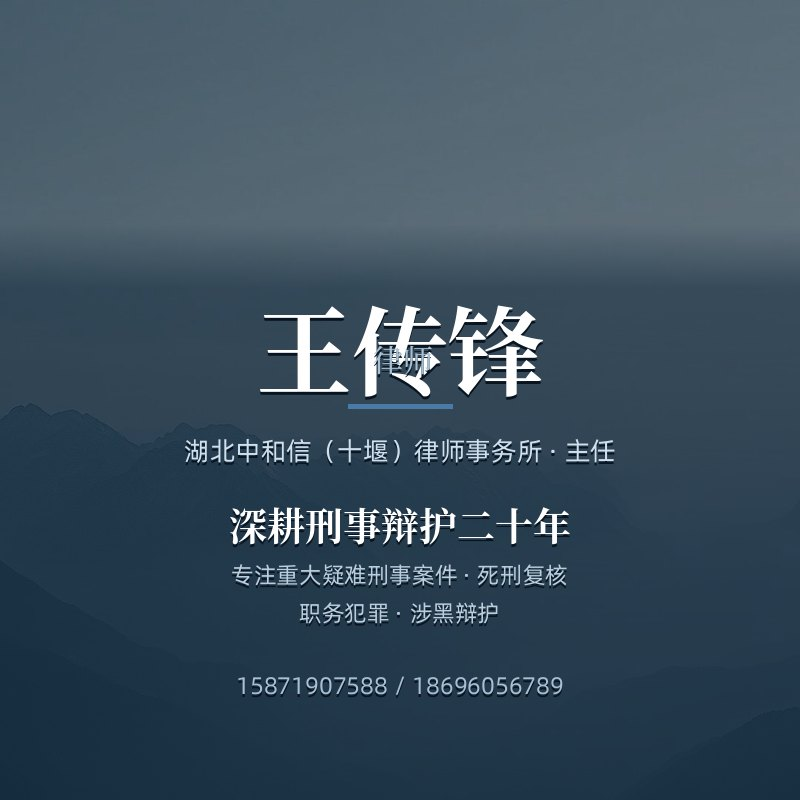
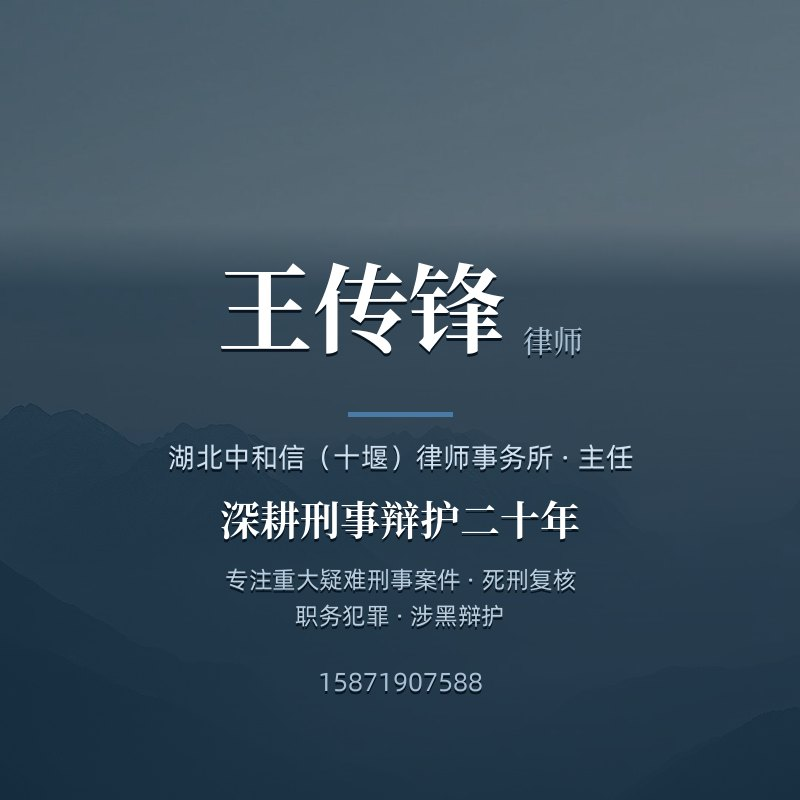
Add files via upload

Changed region(s): [[0.1875, 0.3125, 0.8125, 0.5938], [0.2812, 0.625, 0.7188, 0.7812], [0.2812, 0.8438, 0.7188, 0.875]]

diff --git a/index.html b/index.html
@@ -18,8 +18,7 @@
 <meta name="theme-color" content="#1c4260">
 <meta name="format-detection" content="telephone=no">
 
-<!-- ⚠ 上线前把下面的 https://example.com 全部替换成你的正式域名（共 4 处） -->
-<link rel="canonical" href="https://example.com/">
+<link rel="canonical" href="https://zzx20010818.github.io/wangchuanfeng-lawyer/">
 
 <!-- ===== 站点图标 ===== -->
[1 lines of base64/hex data omitted]
@@ -33,12 +32,12 @@
 <meta property="og:title" content="王传锋律师 | 深耕刑事辩护二十年">
 <meta property="og:description" content="湖北中和信（十堰）律师事务所主任，专注重大疑难刑事案件、死刑复核辩护、职务犯罪与涉黑案件。">
 <!-- 主缩略图：正方形 800×800，微信 / QQ 会话里显示为方形小图，不会被裁掉姓名 -->
-<meta property="og:image" content="share-square.jpg">
+<meta property="og:image" content="https://zzx20010818.github.io/wangchuanfeng-lawyer/share-square.jpg">
 <meta property="og:image:width" content="800">
 <meta property="og:image:height" content="800">
 <meta property="og:image:alt" content="王传锋律师 · 湖北中和信（十堰）律师事务所主任">
 <!-- 备用横图 1200×630（LinkedIn / Twitter 偏好 1.91:1）：把上面 3 行换成 og-cover.jpg 即可 -->
-<meta property="og:url" content="https://example.com/">
+<meta property="og:url" content="https://zzx20010818.github.io/wangchuanfeng-lawyer/">
 <meta name="twitter:card" content="summary_large_image">
 
 <!-- ===== 结构化数据：帮助搜索引擎识别律师与律所信息 ===== -->
@@ -53,7 +52,7 @@
   "telephone": "+86-15871907588",
   "identifier": { "@type": "PropertyValue", "name": "律师执业证号", "value": "14203200710566061" },
   "email": "1549114463@qq.com",
-  "url": "https://example.com/",
+  "url": "https://zzx20010818.github.io/wangchuanfeng-lawyer/",
   "areaServed": { "@type": "AdministrativeArea", "name": "湖北省" }
 }
 </script>
@@ -803,8 +802,6 @@ h1, h2, h3, h4 { font-family: var(--font-serif); font-weight: 700; line-height: 
             <svg viewBox="0 0 24 24" fill="none" stroke="currentColor" stroke-width="1.8" stroke-linecap="round" stroke-linejoin="round"><path d="M22 16.9v3a2 2 0 0 1-2.2 2 19.8 19.8 0 0 1-8.6-3.1 19.5 19.5 0 0 1-6-6A19.8 19.8 0 0 1 2.1 4.2 2 2 0 0 1 4.1 2h3a2 2 0 0 1 2 1.7c.13.96.36 1.9.7 2.8a2 2 0 0 1-.45 2.1L8.1 9.9a16 16 0 0 0 6 6l1.3-1.3a2 2 0 0 1 2.1-.45c.9.34 1.84.57 2.8.7a2 2 0 0 1 1.7 2z"/></svg>
             <span class="phone">
               <a href="tel:+8615871907588">15871907588</a>
-              <span class="sep">/</span>
-              <a href="tel:+8618696056789">18696056789</a>
             </span>
           </li>
           <li>
